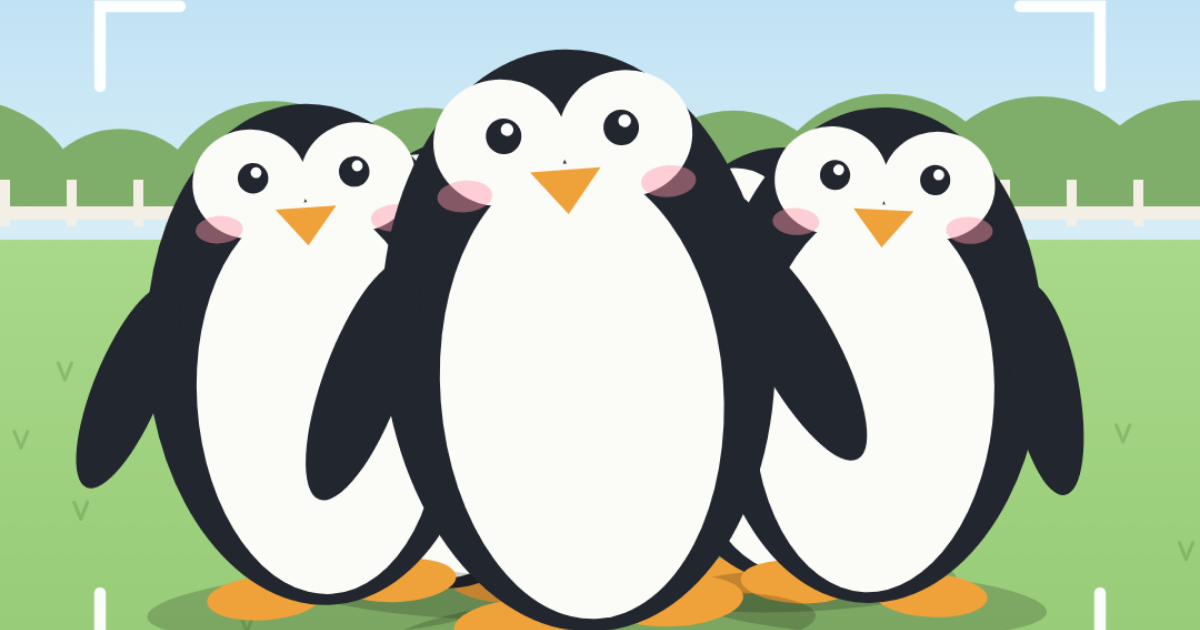
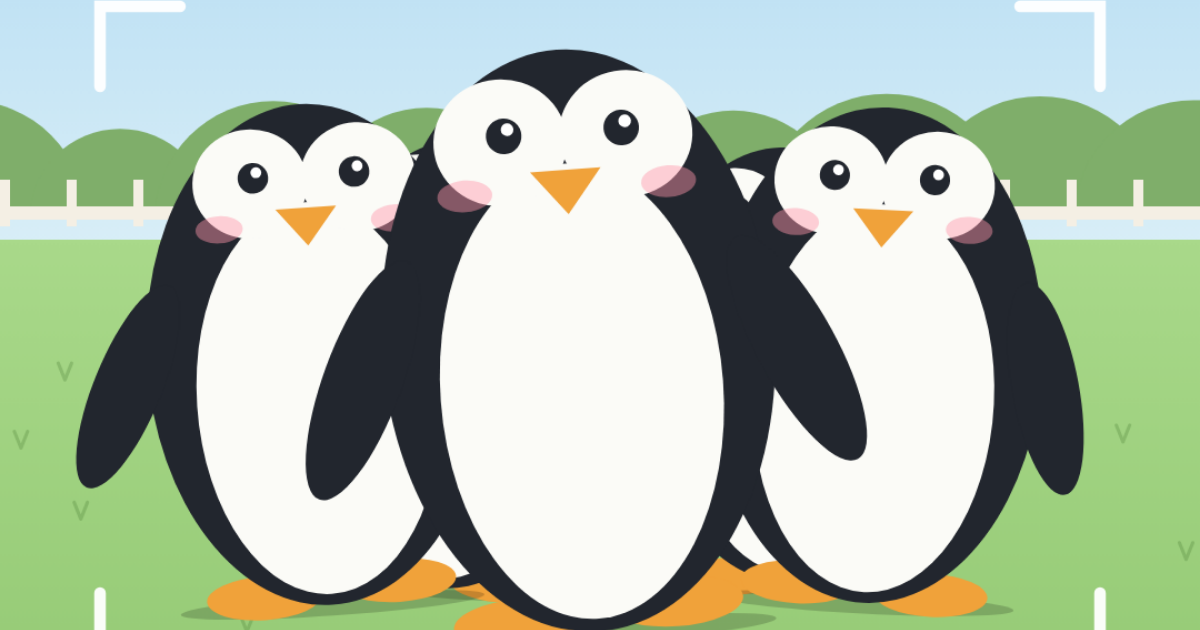
penguin: 判定を描いたペンギンの輪郭どおりにする（枠ぴったりのずれを修正）
Claude-Session: https://claude.ai/code/session_01E5BBq7waBxSg39EVTyVM3T

Changed region(s): [[0.1233, 0.9048, 0.4317, 1.0], [0.5858, 0.9048, 0.8942, 1.0], [0.5858, 0.9048, 0.6167, 0.9349]]

diff --git a/penguin/index.html b/penguin/index.html
@@ -180,14 +180,14 @@ function rng(a){return function(){a|=0;a=a+0x6D2B79F5|0;let t=Math.imul(a^a>>>15
 function makePlan(seed,Ds){Ds=Ds||BEST;
   const R=rng(seed);let t=0,d=D0,last='',first=true;const S=[];
   const push=(dur,dd,kind,extra)=>{S.push(Object.assign({t0:t,t1:t+dur,d0:d,d1:d-dd,kind},extra||{}));t+=dur;d-=dd;};
-  const still=()=>d>Ds+90;
+  const still=()=>d>Ds*1.15+80;
   while(d>END){
     const v=V*(.75+R()*.5);const dist=first?260+R()*200:120+R()*220;first=false;
     push(dist/v*1000,dist,'walk');if(d<=END)break;
     const r=R();
     if(r<.4&&still()&&last!=='look'){push(500+R()*700,0,'look');last='look';}
     else if(r<.75&&last!=='hurry'){const dd=Math.min(d-END+10,140+R()*160);push(dd/(V*2.3)*1000,dd,'hurry');last='hurry';}
-    else if(still()&&d>Ds+80){push(450+R()*350,0,'look',{bump:1});push(140,75,'push');last='push';}
+    else if(still()&&d>Ds*1.15+80){push(450+R()*350,0,'look',{bump:1});push(140,75,'push');last='push';}
   }
   return S;
 }
@@ -208,7 +208,7 @@ cv.addEventListener('contextmenu',e=>e.preventDefault());
 
 function shoot(ts,auto){
   if(!G||G.phase!=='walk')return;
-  const d=distAt(ts);const fill=fillAt(d);const pct=(fill-1)*100;
+  const d=distAt(ts);const fill=fillT(ts);const pct=(fill-1)*100;
   const pecked=d<PECK;
   G.res={d,fill,pct,err:-pct,pecked,dev:devOf(pct),auto:!!auto};G.phase='shot';G.ts=ts;G.dShot=d;
   if(pecked){SFX.peck();anim($('app'),'shake');}else{SFX.shutter();}
@@ -218,7 +218,7 @@ function shoot(ts,auto){
 function devOf(p){const a=Math.abs(p);if(a<=OKP)return 0;return Math.max(.1,Math.ceil(a*10-1e-9)/10);}
 function step(now){
   if(G.phase==='walk'){
-    if(G.plan!==undefined&&G.plan!==null){const at=timeAt(G.plan==='peck'?120:dAtFill(1+G.plan/100));if(now>=at)shoot(at);}
+    if(G.plan!==undefined&&G.plan!==null){const at=G.plan==='peck'?timeAt(120):(G.planAt||(G.planAt=timeAtFill(1+G.plan/100)));if(now>=at)shoot(at);}
     if(G.phase==='walk'&&distAt(now)<=END)shoot(timeAt(END),true);
     if(G.phase==='walk'&&now>G.t0){const g=segAt(now-G.t0);const k=g?g.kind:'walk';const gap=k==='hurry'?120:k==='push'?60:300;if(k!=='look'&&now-G.lastStep>gap){G.lastStep=now;SFX.step();}if(g&&g!==G.lastSeg){G.lastSeg=g;if(k==='hurry'||k==='push')SFX.hey();}}
   }
@@ -240,15 +240,27 @@ function drawField(x){
   x.strokeStyle='rgba(60,110,40,.25)';x.lineWidth=1;for(let i=0;i<60;i++){const px=rnd(i+3)*W,py=hz+Math.pow(rnd(i+7),.7)*(H-hz);x.beginPath();x.moveTo(px,py);x.lineTo(px-2,py-5);x.moveTo(px,py);x.lineTo(px+2,py-5);x.stroke();}
 }
 /* one penguin, h px tall, feet at (X, Y) */
+function tiltOf(ph,mode,ma){return mode==='look'?Math.sin(ma*4.2)*.2:Math.sin(ph)*(mode==='hurry'?.13:.08);}
+function flipOf(ph,mode,ma){return mode==='hurry'||mode==='push'?.95+Math.sin(ma*38)*.4:.35+Math.sin(ph*2)*.12;}
+/* the exact outline box of a drawn penguin (body, flippers, feet; not the shadow), from the same numbers penguin() draws with */
+function pbox(q){const {X,Y,h,ph,mode,ma}=q;const w=h*.62,r0=tiltOf(ph,mode,ma),fl=flipOf(ph,mode,ma);
+  let l=1e9,r=-1e9,t=1e9,b=-1e9;
+  const ell=(cx,cy,a,bb,th)=>{const c=Math.cos(r0),s=Math.sin(r0);const X1=X+cx*c-cy*s,Y1=Y+cx*s+cy*c,T=th+r0;
+    const hw=Math.sqrt(a*a*Math.cos(T)**2+bb*bb*Math.sin(T)**2),hh=Math.sqrt(a*a*Math.sin(T)**2+bb*bb*Math.cos(T)**2);
+    l=Math.min(l,X1-hw);r=Math.max(r,X1+hw);t=Math.min(t,Y1-hh);b=Math.max(b,Y1+hh);};
+  ell(0,-h*.46,w*.5,h*.46,0);
+  for(const sg of [-1,1]){const a=-sg*fl;ell(sg*w*.46-Math.sin(a)*h*.14,-h*.55+Math.cos(a)*h*.14,w*.1,h*.2,a);}
+  ell(-w*.2,-h*.02+Math.max(0,Math.sin(ph))*-h*.02,w*.17,h*.04,0);ell(w*.2,-h*.02+Math.max(0,-Math.sin(ph))*-h*.02,w*.17,h*.04,0);
+  return {l,r,t,b};}
 function penguin(x,X,Y,h,ph,peck,mode,ma){
-  const w=h*.62;x.save();x.translate(X,Y);x.rotate(mode==='look'?Math.sin(ma*4.2)*.2:Math.sin(ph)*(mode==='hurry'?.13:.08));
-  x.fillStyle='rgba(0,0,0,.18)';x.beginPath();x.ellipse(0,0,w*.55,h*.06,0,0,Math.PI*2);x.fill();
+  const w=h*.62;x.save();x.translate(X,Y);x.rotate(tiltOf(ph,mode,ma));
+  x.fillStyle='rgba(0,0,0,.18)';x.beginPath();x.ellipse(0,0,w*.45,h*.02,0,0,Math.PI*2);x.fill();
   /* feet */
   x.fillStyle='#f0a23a';x.beginPath();x.ellipse(-w*.2,-h*.02+Math.max(0,Math.sin(ph))*-h*.02,w*.17,h*.04,0,0,Math.PI*2);x.ellipse(w*.2,-h*.02+Math.max(0,-Math.sin(ph))*-h*.02,w*.17,h*.04,0,0,Math.PI*2);x.fill();
   /* body */
   x.fillStyle='#22262e';x.beginPath();x.ellipse(0,-h*.46,w*.5,h*.46,0,0,Math.PI*2);x.fill();
   /* flippers */
-  const fl=mode==='hurry'||mode==='push'?.95+Math.sin(ma*38)*.4:.35+Math.sin(ph*2)*.12;
+  const fl=flipOf(ph,mode,ma);
   x.save();x.translate(-w*.46,-h*.55);x.rotate(fl);x.beginPath();x.ellipse(0,h*.14,w*.1,h*.2,0,0,Math.PI*2);x.fill();x.restore();
   x.save();x.translate(w*.46,-h*.55);x.rotate(-fl);x.beginPath();x.ellipse(0,h*.14,w*.1,h*.2,0,0,Math.PI*2);x.fill();x.restore();
   /* belly and face */
@@ -272,15 +284,24 @@ function poseAt(t){
   const mark=g.kind==='look'?(g.bump&&pr>.75?'!':'?'):(g.kind==='hurry'&&a<.45)||g.kind==='push'?'!':'';
   return {mode:g.kind,ma:a,off,mark};
 }
-function drawFlock(x,d0,tw,now){
-  const {CY}=L();const P=G&&G.phase==='walk'?poseAt(now):G&&G.phase==='shot'?poseAt(G.ts):{mode:'walk',ma:0,off:0,mark:''};
+/* every penguin as it is drawn when the leader is d0 away at page time t (tw: seconds since the round began) */
+function flockAt(d0,t,P){
+  const tw=G?Math.max(0,t-G.t0)/1000:0;
   const F=G?G.F.map((f,i)=>i===1?{ox:f.ox,dz:f.dz+P.off}:f):[{ox:0,dz:0},{ox:-90,dz:150},{ox:95,dz:170},{ox:-50,dz:300},{ox:55,dz:320}];
-  const list=boxes(d0,F).sort((a,b)=>b.d-a.d);
-  const walked=(D0-d0)/320*7;let top=null;
-  for(const p of list){const {h,X,Y}=p;
-    const lead=p.i===0;const mode=lead?P.mode:(P.mode==='look'&&!(p.i===1&&P.off<-20)?'look':'walk');
-    penguin(x,X,Y,h,(lead?walked:walked+tw*2)+p.i*1.7,lead&&G&&G.res&&G.res.pecked,mode,P.ma+p.i*.4);
-    if(lead)top={X,Y:Y-h*.98,h};}
+  const walked=(D0-d0)/320*7;
+  return boxes(d0,F).sort((a,b)=>b.d-a.d).map(p=>{const lead=p.i===0;
+    return Object.assign(p,{lead,ph:(lead?walked:walked+tw*2)+p.i*1.7,mode:lead?P.mode:(P.mode==='look'&&!(p.i===1&&P.off<-20)?'look':'walk'),ma:P.ma+p.i*.4});});}
+/* how full the frame is, measured on the drawn penguins: 1 = the first one just touches the frame line */
+function fillOf(list){const {CY}=L();let f=0;for(const q of list){const b=pbox(q);f=Math.max(f,(180-b.l)/(FW/2),(b.r-180)/(FW/2),(CY-b.t)/(FH/2),(b.b-CY)/(FH/2));}return f;}
+function fillT(t){return fillOf(flockAt(distAt(t),t,poseAt(t)));}
+/* first moment the drawn flock reaches fill f (scripted shots) */
+function timeAtFill(f){const t1=timeAt(END);let a=G.t0;for(let t=G.t0;t<=t1;t+=4){if(fillT(t)>=f){let lo=t-4,hi=t;for(let k=0;k<40;k++){const m=(lo+hi)/2;if(fillT(m)>=f)hi=m;else lo=m;}return hi;}}return t1;}
+function drawFlock(x,d0,tw,now){
+  const P=G&&G.phase==='walk'?poseAt(now):G&&G.phase==='shot'?poseAt(G.ts):{mode:'walk',ma:0,off:0,mark:''};
+  const tt=G?(G.phase==='shot'?G.ts:now):now;let top=null;
+  for(const p of flockAt(d0,tt,P)){const {h,X,Y}=p;
+    penguin(x,X,Y,h,p.ph,p.lead&&G&&G.res&&G.res.pecked,p.mode,p.ma);
+    if(p.lead)top={X,Y:Y-h*.98,h};}
   if(top&&P.mark&&!(G&&G.phase==='shot')){const fs=clamp(top.h*.2,16,44);x.save();x.font='900 '+fs+'px '+BODYF();x.textAlign='center';x.textBaseline='bottom';
     const bob=Math.sin(P.ma*10)*2;x.lineWidth=4;x.strokeStyle='rgba(0,0,0,.35)';x.strokeText(P.mark,top.X+top.h*.28,top.Y+bob);x.fillStyle=P.mark==='!'?'#ffd84a':'#fff';x.fillText(P.mark,top.X+top.h*.28,top.Y+bob);x.restore();}
 }
@@ -442,7 +463,7 @@ let PID=null;
 $('startBtn').addEventListener('click',()=>{ac();begin();});
 /* for checks and recording: play(p) taps when the front penguin is p % farther (+) or nearer (-) than exactly right; null = never */
 function play(p,seed){begin(seed);G.plan=p;}
-window.__penguin={get G(){return G;},begin,play,shoot,shareText,showResult,score,L,distAt,timeAt,makePlan,fillAt,dAtFill,formation,V,D0,BEST,OKMM};
+window.__penguin={get G(){return G;},begin,play,shoot,shareText,showResult,score,L,distAt,timeAt,makePlan,fillAt,fillT,timeAtFill,dAtFill,formation,V,D0,BEST,OKMM};
 </script>
 </body>
 </html>
